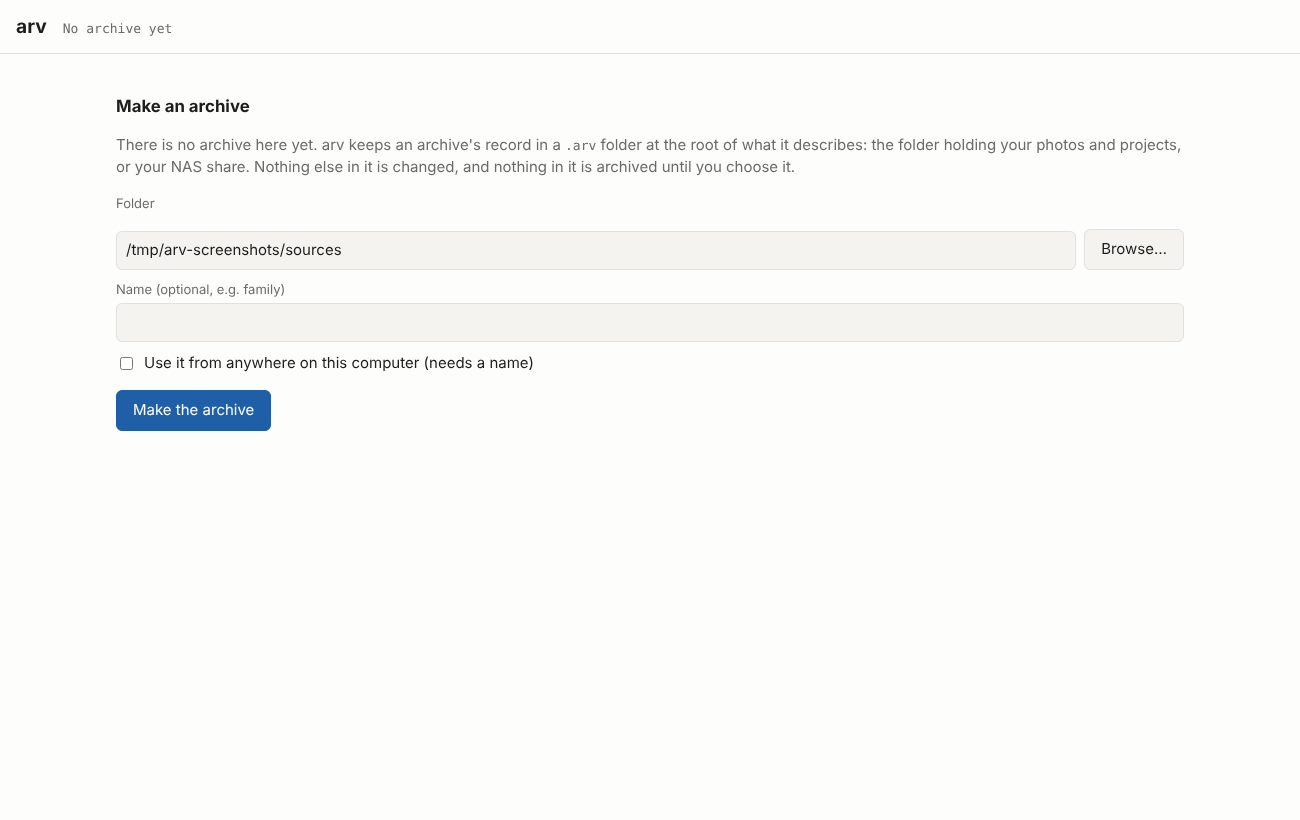
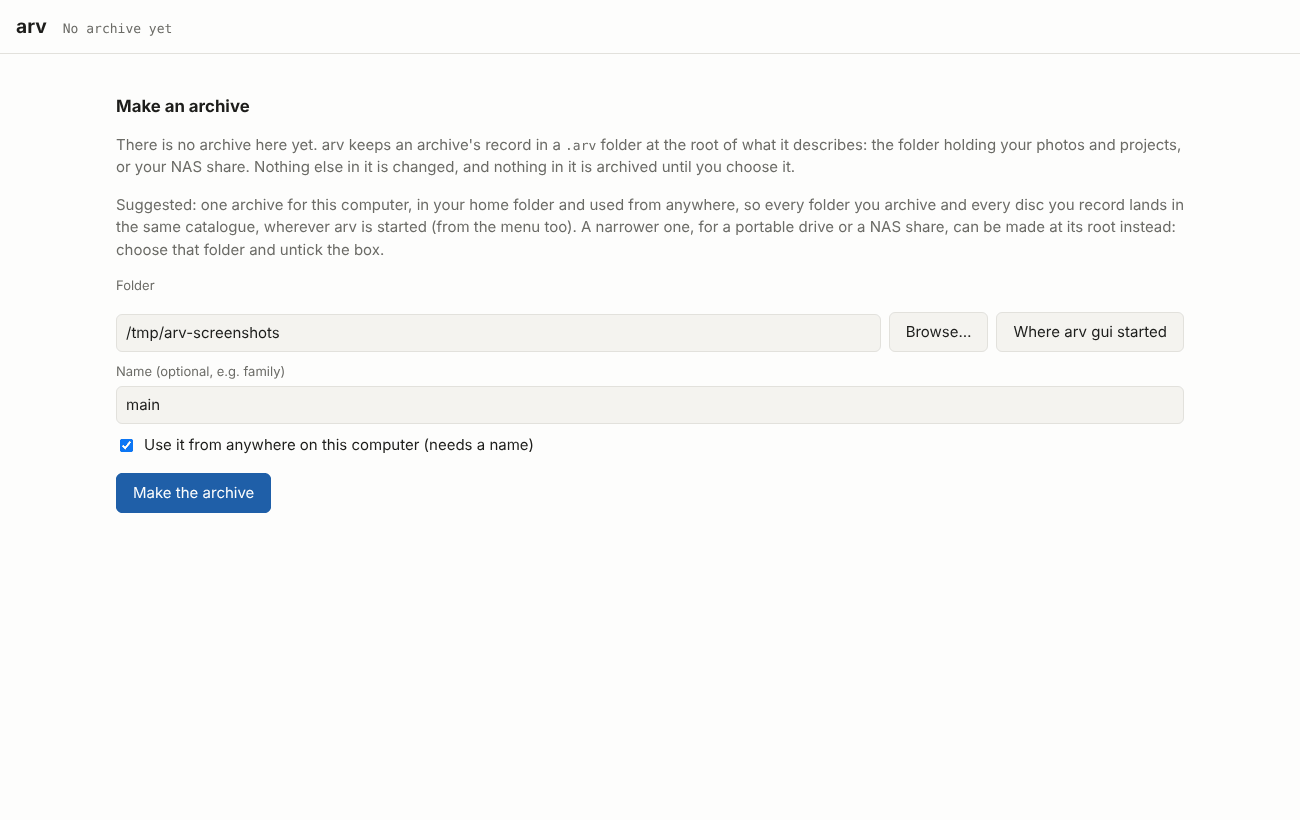
GUI first run: suggest one archive for the computer
Make an archive is now filled in with the home folder, the name main and
"use it from anywhere" (arv init ~ --name main --default): one catalogue,
found wherever arv is started, the menu entry included. Before, it took the
folder arv gui was started in with the box unticked, so an archive made from
the menu was found only from inside the home folder.

- arv-gui: GET /api/setup also gives $HOME (user_home)
- gui.html: the suggestion and why; a button puts back the folder it was
  started in and unticks the box, for a narrower archive (a portable drive,
  a NAS share), whose own .arv still wins inside it
- docs/gui.md, the GUI's README, CHANGELOG, research/plan.md; setup.png retaken

Claude-Session: https://claude.ai/code/session_01MnmYoVsQymqY8hxvVXChpw

diff --git a/src/arv-gui/gui.html b/src/arv-gui/gui.html
@@ -210,9 +210,14 @@ pre.log { background:var(--panel); padding:10px 12px; border-radius:6px; max-hei
   <p class="muted">There is no archive here yet. arv keeps an archive's record in a <span class="mono">.arv</span>
     folder at the root of what it describes: the folder holding your photos and projects, or your NAS share. Nothing
     else in it is changed, and nothing in it is archived until you choose it.</p>
+  <p class="muted" id="s-suggest" hidden>Suggested: one archive for this computer, in your home folder and used from
+    anywhere, so every folder you archive and every disc you record lands in the same catalogue, wherever arv is started
+    (from the menu too). A narrower one, for a portable drive or a NAS share, can be made at its root instead: choose
+    that folder and untick the box.</p>
   <form id="setup-form">
     <label for="s-folder">Folder</label>
-    <div class="inline"><input type="text" id="s-folder" required><button class="plain" type="button" id="s-browse">Browse…</button></div>
+    <div class="inline"><input type="text" id="s-folder" required><button class="plain" type="button" id="s-browse">Browse…</button>
+      <button class="plain" type="button" id="s-here" hidden>Where arv gui started</button></div>
     <div class="browser" id="s-browser" hidden></div>
     <div class="row">
       <div><label for="s-name">Name (optional, e.g. family)</label><input type="text" id="s-name"></div>
@@ -2393,7 +2398,13 @@ pre.log { background:var(--panel); padding:10px 12px; border-radius:6px; max-hei
     document.querySelectorAll("nav, header .link").forEach(function (n) { n.hidden = true; });
     document.querySelectorAll("main > section").forEach(function (sec) { sec.hidden = sec.id !== "tab-setup"; });
     $("home").textContent = "No archive yet";
-    $("s-folder").value = st.cwd;
+    // suggested: the computer's archive, ~/.arv, used from anywhere; a narrower one is a folder away
+    var suggest = st.user_home && st.user_home !== "/";
+    $("s-folder").value = suggest ? st.user_home : st.cwd;
+    $("s-suggest").hidden = !suggest;
+    if (suggest) { $("s-name").value = "main"; $("s-default").checked = true; }
+    $("s-here").hidden = !suggest || st.cwd === st.user_home;
+    $("s-here").onclick = function () { $("s-folder").value = st.cwd; $("s-default").checked = false; };
     $("s-browse").onclick = function () { pickFolder($("s-folder"), $("s-browser")); };
     $("setup-form").onsubmit = function (ev) {
       ev.preventDefault();

diff --git a/tests/test_gui.py b/tests/test_gui.py
@@ -218,7 +218,7 @@ class GuiTest(unittest.TestCase):
         try:
             self.home = None
             self.start()
-            self.assertEqual(json.loads(self.request("/api/setup")[1]), {"home": None, "cwd": where})
+            self.assertEqual(json.loads(self.request("/api/setup")[1]), {"home": None, "cwd": where, "user_home": self.tmp})
             self.assertNotEqual(self.run_arv("where", "--json", home=False)["returncode"], 0)
             made = self.run_arv("init", "~/nas", "--name", "family", "--default", home=False)   # ~ as in a shell
             self.assertEqual(made["returncode"], 0, made["out"] + made["err"])

diff --git a/src/arv-gui/arv-gui.c b/src/arv-gui/arv-gui.c
@@ -521,6 +521,8 @@ static void route_setup(void)
     json_text(&b, home_given);
     sb_puts(&b, ", \"cwd\": ");
     json_text(&b, start_dir);
+    sb_puts(&b, ", \"user_home\": ");          /* the first run suggests the archive for the whole computer there */
+    json_text(&b, getenv("HOME") && *getenv("HOME") ? getenv("HOME") : NULL);
     sb_puts(&b, "}");
     respond_json(200, &b);
 }

diff --git a/src/arv-gui/README.md b/src/arv-gui/README.md
@@ -24,8 +24,11 @@ Jobs, the commands it ran, open from the header. File lists show a small icon fo
 file, guessed from the extension as a hint only: the disc's `formats.csv` (Siegfried) is the record.
 
 With no archive here or above and no default (a first run), it opens on **Make an archive**: a
-folder (where it was started, or browsed to), an optional name, and whether to use it from
-anywhere; that runs `arv init`, and the interface opens on the new archive.
+folder, an optional name, and whether to use it from anywhere; that runs `arv init`, and the
+interface opens on the new archive. It suggests one archive for the computer: the home folder
+(`~/.arv`), named `main` and used from anywhere, so whatever is archived, and from wherever arv
+(or its menu entry) is started, lands in one catalogue. A narrower one, a portable drive's or a
+NAS share's, is a folder away (Browse, or where it was started), with the box unticked.
 
 It serves one page on 127.0.0.1 and opens it. **The page does everything through arv**: it builds
 each command (`arv list --json`, `arv burned ID --copies 1 ...`) and shows what arv printed. The
@@ -40,7 +43,7 @@ any language against the same four routes:
 | `POST /api/run` | `{"argv": [...], "stdin": "...", "program": "arv" or "arv-assist", "job": false}`: the exit status and what it printed (`out`, `err`); with `"job": true`, a job |
 | `GET /api/job?id=N&since=K`, `GET /api/jobs` | a job's output from line K, and whether it is done; every job |
 | `GET /api/browse?path=P&files=1` | a folder's folders (and files, with sizes) |
-| `GET /api/setup` | the home it was given and where it was started; the page asks `arv where --json` for the rest |
+| `GET /api/setup` | the home it was given, where it was started and the person's home folder (`$HOME`); the page asks `arv where --json` for the rest |
 
 The page and every request carry a per-session token, and the Host header must be the loopback
 address, so other web pages and other local users cannot drive it. Commands run without a shell,

diff --git a/research/plan.md b/research/plan.md
@@ -2835,3 +2835,19 @@ checked to read:
   declares `role` (raw, master, access; one a file), so `arv tags` explains it. Still to build:
   the master's hash on its derivatives, if a real album shows it is wanted.
 
+## Decision (2026-10-23): the GUI's first run suggests one archive for the computer
+
+- **Before:** Make an archive was filled in with the folder `arv gui` was started in, the box
+  for "use it from anywhere" unticked. Started from the menu, that is the home folder, and an
+  archive made there without the box is found only from inside it: the next start from anywhere
+  else asks again, and a second archive is one click away.
+- **Now:** it suggests `~/.arv`, named `main`, the registered default (`arv init ~ --name main
+  --default`): one catalogue for the computer, found wherever arv is started. arv still makes
+  nothing unasked (2026-10-09); this is what the form says before the person presses the button.
+  `~/.arv` costs nothing: a `.arv` decides which catalogue, never what is tracked.
+- **A narrower archive stays one folder away:** a portable drive's or a NAS share's, at its root,
+  with the box unticked (a button puts back the folder it was started in). Bubbles: inside that
+  folder its own `.arv` wins over the default.
+- Not built: making an archive found by walking up the default afterwards (`init` refuses a
+  `.arv` that exists; `homes.rec` is edited by hand, or `arv init --name` is run first). Wait
+  for someone to want it.

diff --git a/CHANGELOG.md b/CHANGELOG.md
@@ -21,6 +21,12 @@ only add fields.
 
 What 1.0 is planned to be, as of now. Format 0.5 is what every disc made today carries.
 
+**The GUI's first run suggests one archive for the computer**
+- Make an archive is filled in with the home folder, the name `main` and "use it from anywhere":
+  one catalogue, found wherever arv is started (from the menu, too). A narrower one, a portable
+  drive's or a NAS share's, is a folder away, with the box unticked.
+- `GET /api/setup` also gives the person's home folder (`user_home`).
+
 **Every view of the GUI, pictured**
 - `docs/gui.md`: each view of `arv gui`, with a picture on the sample archive and the commands it
   runs. `dev-tools/screenshots.sh` takes them all again; a view that shows nothing until it is used

diff --git a/docs/gui.md b/docs/gui.md
@@ -20,6 +20,12 @@ With no archive in the folder it was started in, or above it, and no default, `a
 make one (`arv init`): a folder, an optional name, and whether to use it from anywhere. The
 interface then opens on it.
 
+It suggests one archive for the whole computer: `.arv` in your home folder, named `main` and used
+from anywhere (`arv init ~ --name main --default`). Then every folder you archive and every disc
+you record lands in the same catalogue, wherever arv is started, the menu entry included. A
+narrower one, for a portable drive or a NAS share, goes at that folder's root instead: Browse to it
+(or "Where arv gui started") and untick the box. Inside that folder, its own `.arv` is used.
+
 ## Archive: onto discs
 
 ### From a folder
